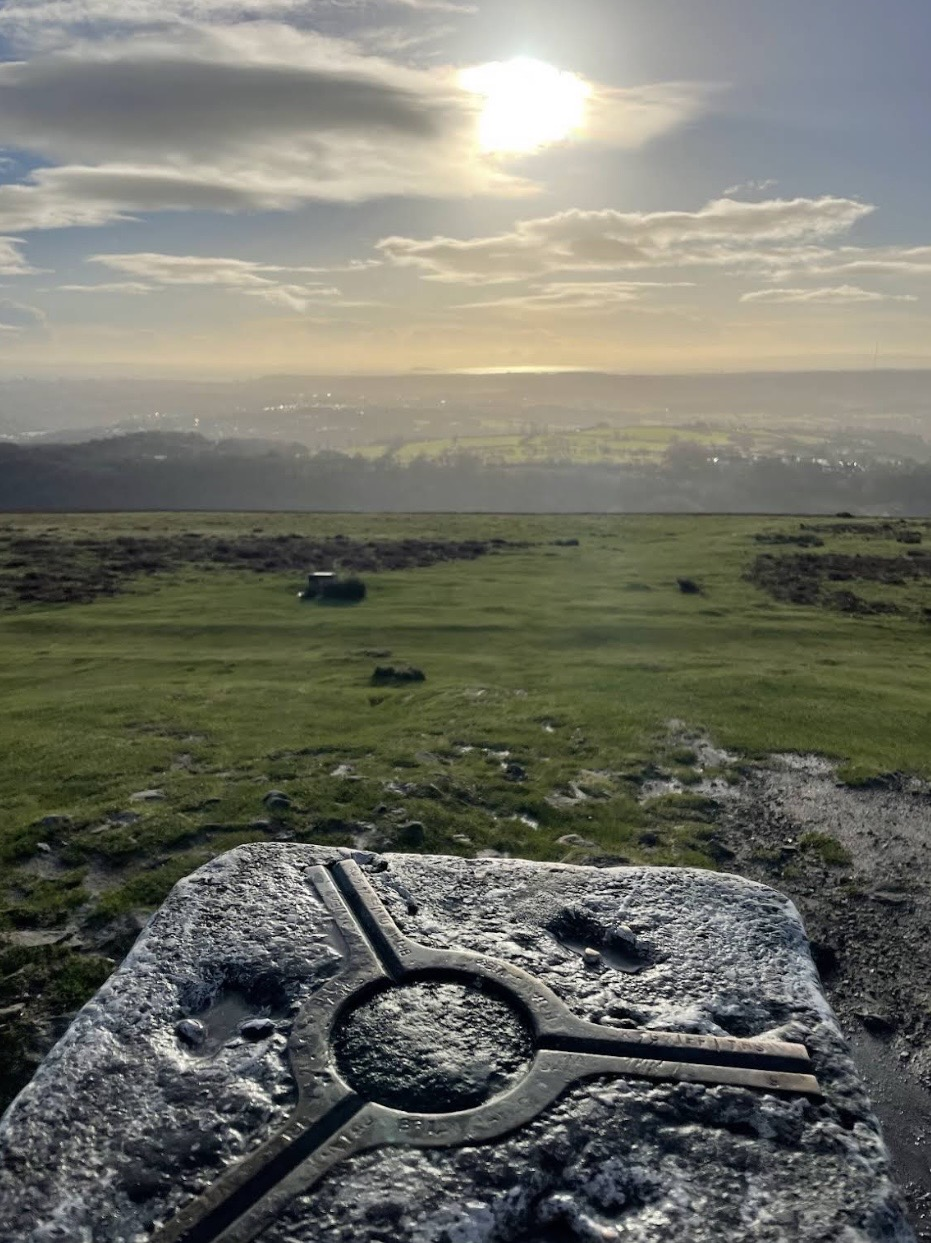
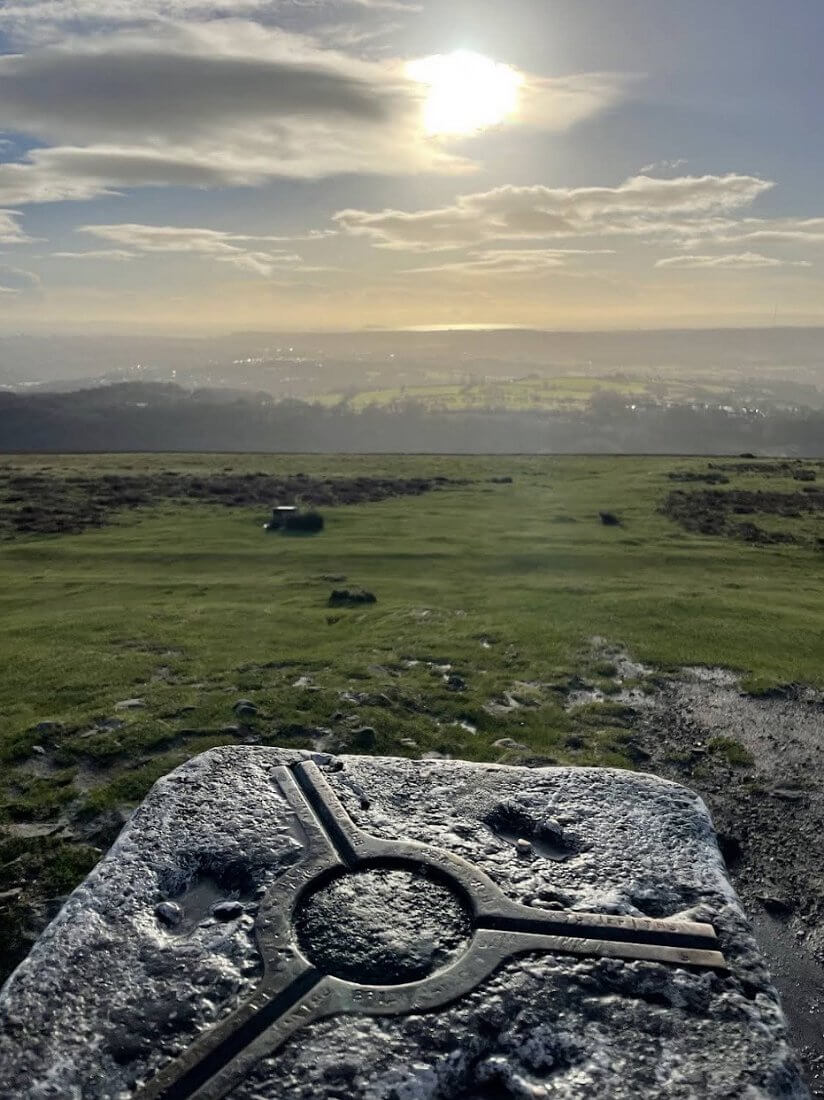
photo adjust

diff --git a/templates/event.html b/templates/event.html
@@ -23,7 +23,7 @@
     </a>
 
     <!-- Gallery -->
-    <div id="gallery" class="mb-10" data-images='{{trip.images}}'></div>
+    <div id="gallery" class="mb-10 [&_img]:cursor-pointer [&_img]:transition-opacity [&_img]:hover:opacity-90 [&_img]:[image-rendering:high-quality]" data-images='{{trip.images}}'></div>
 
     <!-- Event Header -->
     <div class="mb-10">
@@ -144,6 +144,16 @@
 
   {{> footer}}
 
+  <!-- Image Modal -->
+  <div id="image-modal" class="fixed inset-0 z-50 hidden items-center justify-center bg-black/80 backdrop-blur-sm">
+    <button id="modal-close" class="absolute top-4 right-4 text-white hover:text-zinc-300 transition-colors">
+      <svg class="w-8 h-8" fill="none" stroke="currentColor" viewBox="0 0 24 24">
+        <path stroke-linecap="round" stroke-linejoin="round" stroke-width="1.5" d="M6 18L18 6M6 6l12 12"></path>
+      </svg>
+    </button>
+    <img id="modal-image" src="" alt="" class="max-h-[90vh] max-w-[90vw] object-contain rounded-lg">
+  </div>
+
   <script>
     (function() {
     document.addEventListener('DOMContentLoaded', function() {
@@ -182,8 +192,8 @@
                     <div class="w-3 h-3 rounded-full ${dotColor} flex-shrink-0 mt-1.5"></div>
                     <div class="w-0.5 flex-1 bg-zinc-200 dark:bg-zinc-700 ${lineClass}"></div>
                   </div>
-                  <div class="pb-2 ${isLast ? 'pb-0' : ''}">
-                    <span class="text-sm font-medium text-zinc-900 dark:text-zinc-100 inline-block w-16">${item.time}</span>
+                  <div class="pb-2 flex gap-3 ${isLast ? 'pb-0' : ''}">
+                    <span class="text-sm font-medium text-zinc-900 dark:text-zinc-100 flex-shrink-0 w-14">${item.time}</span>
                     <span class="text-sm text-zinc-600 dark:text-zinc-400">${item.description}</span>
                   </div>
                 </div>
@@ -369,6 +379,61 @@
         icon.style.transform = 'rotate(45deg)';
       }
     };
+
+    // Image modal
+    const modal = document.getElementById('image-modal');
+    const modalImg = document.getElementById('modal-image');
+    const modalClose = document.getElementById('modal-close');
+    let galleryImages = [];
+    let currentIndex = 0;
+
+    function openModal(src) {
+      galleryImages = Array.from(document.querySelectorAll('#gallery img')).map(img => img.src);
+      currentIndex = galleryImages.indexOf(src);
+      modalImg.src = src;
+      modal.classList.remove('hidden');
+      modal.classList.add('flex');
+      document.body.style.overflow = 'hidden';
+    }
+
+    function closeModal() {
+      modal.classList.add('hidden');
+      modal.classList.remove('flex');
+      modalImg.src = '';
+      document.body.style.overflow = '';
+    }
+
+    function showImage(index) {
+      if (index < 0) index = galleryImages.length - 1;
+      if (index >= galleryImages.length) index = 0;
+      currentIndex = index;
+      modalImg.src = galleryImages[currentIndex];
+    }
+
+    // Click on gallery images
+    document.getElementById('gallery').addEventListener('click', function(e) {
+      if (e.target.tagName === 'IMG') {
+        openModal(e.target.src);
+      }
+    });
+
+    // Close on X button
+    modalClose.addEventListener('click', closeModal);
+
+    // Close on backdrop click
+    modal.addEventListener('click', function(e) {
+      if (e.target === modal) {
+        closeModal();
+      }
+    });
+
+    // Keyboard navigation
+    document.addEventListener('keydown', function(e) {
+      if (modal.classList.contains('hidden')) return;
+      if (e.key === 'Escape') closeModal();
+      if (e.key === 'ArrowLeft') showImage(currentIndex - 1);
+      if (e.key === 'ArrowRight') showImage(currentIndex + 1);
+    });
     })();
   </script>
 </body>
